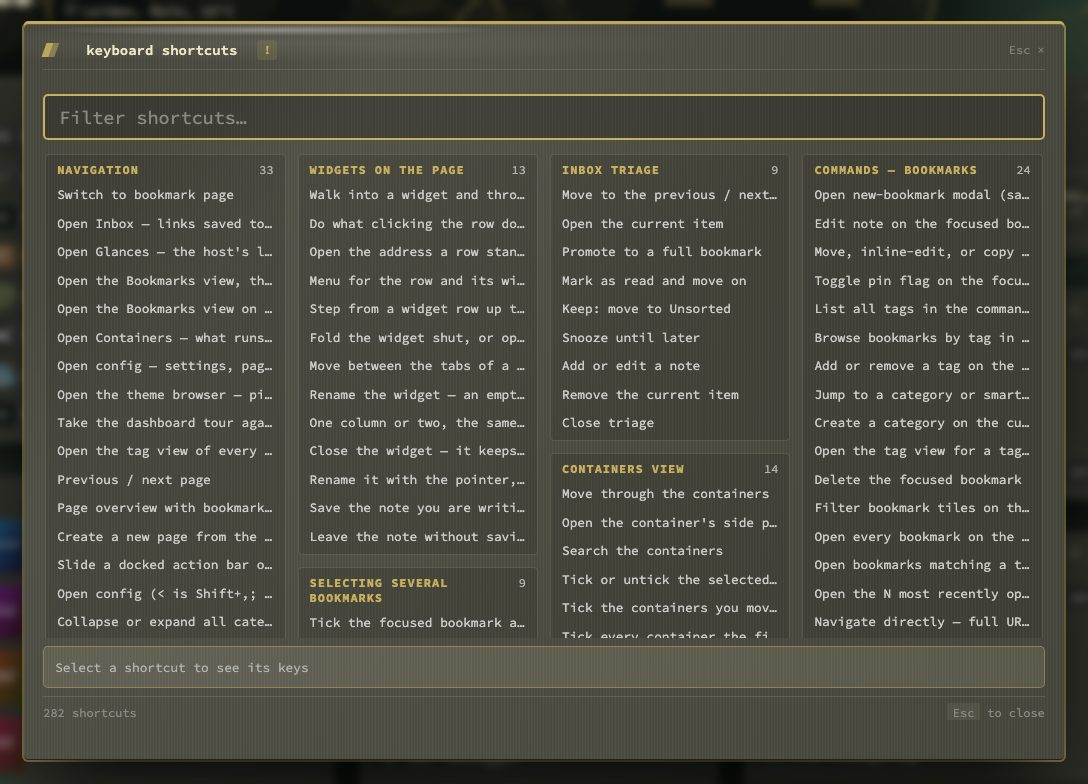
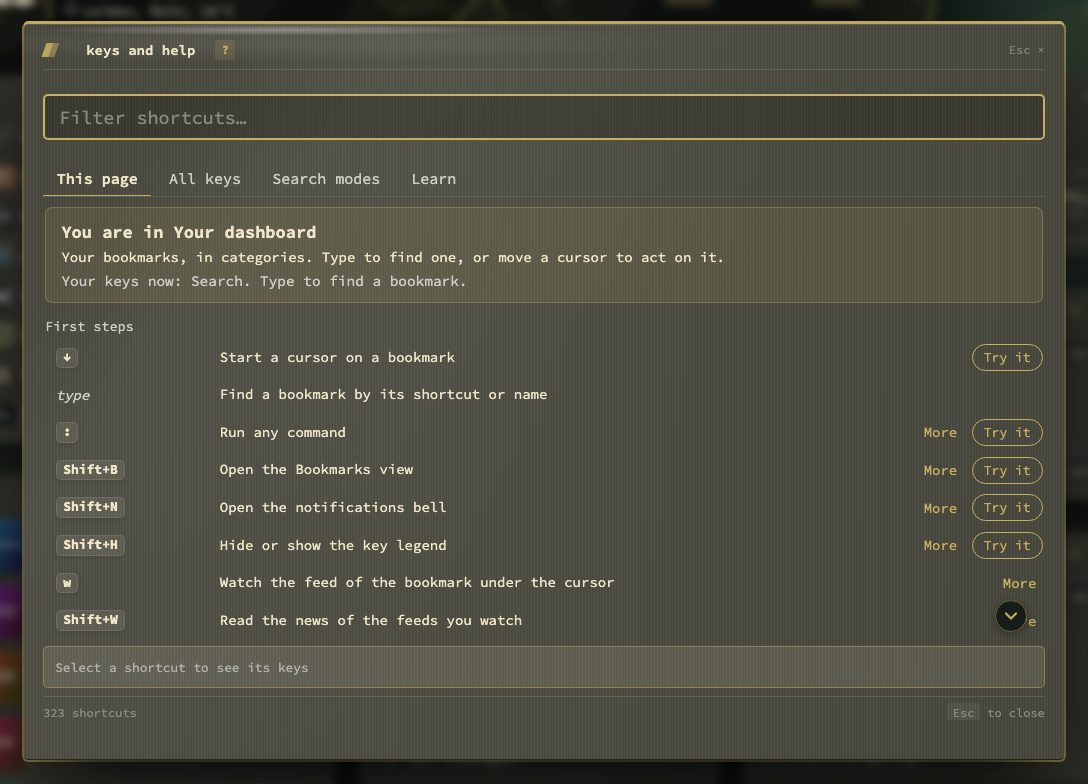
Docs for v1.27.0: readme, manual and overview features

diff --git a/internal/app/asset_hashes_gen.go b/internal/app/asset_hashes_gen.go
@@ -55,7 +55,7 @@ var precomputedAssetHashes = map[string]string{
 	"css/layer-tokens.css":                                   "0bd62e88dc5b",
 	"css/list-view-shell.css":                                "f787fe839d19",
 	"css/mobile-experience.css":                              "182af980a30f",
-	"css/modal.css":                                          "4661490c9cfa",
+	"css/modal.css":                                          "f9c59172a684",
 	"css/monitoring-tutorial.css":                            "958a73ec6be7",
 	"css/nd-chart.css":                                       "3d0d43e2b920",
 	"css/notification-bell.css":                              "e8db3bd594b1",
@@ -235,7 +235,7 @@ var precomputedAssetHashes = map[string]string{
 	"js/dashboard/dashboard-tag-view.js":                     "f3f7c6cd102c",
 	"js/dashboard/dashboard-title-icons.js":                  "ff599b2a3c41",
 	"js/dashboard/dashboard-toolbar.js":                      "b07f0a425cbc",
-	"js/dashboard/dashboard-ui-helpers.js":                   "25347f74f71e",
+	"js/dashboard/dashboard-ui-helpers.js":                   "d4a668edcfbd",
 	"js/dashboard/dashboard-visual.js":                       "c24257baa3f7",
 	"js/dashboard/dashboard-widget-archive.js":               "f7a328eccf11",
 	"js/dashboard/dashboard-widget-arr.js":                   "de02be421161",
@@ -373,7 +373,7 @@ var precomputedAssetHashes = map[string]string{
 	"js/shared/icon-set-picker.js":                           "073841e169ea",
 	"js/shared/inline-create-row.js":                         "d610d93ab25f",
 	"js/shared/keyboard-cheat-sheet-registry.js":             "76be2a68713d",
-	"js/shared/keyboard-page-help.js":                        "a6e74318c591",
+	"js/shared/keyboard-page-help.js":                        "d116edf5f2f9",
 	"js/shared/keyboard-view-legends.js":                     "9659c55af8a6",
 	"js/shared/last-opened-format.js":                        "a968982d0c81",
 	"js/shared/list-density.js":                              "567fcdba3266",
@@ -424,7 +424,7 @@ var precomputedAssetHashes = map[string]string{
 	"js/whats-new-stub.js":                                   "b4eed3d85dfd",
 	"js/widgets-tutorial.js":                                 "eaecc3231fdd",
 	"js/write-api.js":                                        "e0abe4afb886",
-	"nextDash-cheatsheet.pdf":                                "1d8446a27d48",
+	"nextDash-cheatsheet.pdf":                                "4e20178e5789",
 	"status/status.css":                                      "a9ce0e7f22f9",
 	"status/status.js":                                       "02443ce43d7b",
 	"vendor/qrcode-generator/1.4.4/qrcode.js":                "18ae399f8118",

diff --git a/MANUAL.md b/MANUAL.md
@@ -10,7 +10,7 @@
 |---|----------|---------------|
 | 🚀 | **Install & security** | [README.md](README.md) — Docker, environment variables, production setup |
 | 📋 | **Release history** | [CHANGELOG.md](CHANGELOG.md) — every version, new and fix |
-| 🗂 | **Shortcut cheat sheet** | Press **!** or **F1** on the dashboard (live, searchable). Printable: [PDF](nextDash-cheatsheet.pdf?raw=true) / [HTML](nextDash-cheatsheet.html?raw=true) — regenerate with `npm run generate:cheatsheet`. |
+| 🗂 | **Shortcut cheat sheet** | Press **?** or **F1** on the dashboard (live, searchable). Printable: [PDF](nextDash-cheatsheet.pdf?raw=true) / [HTML](nextDash-cheatsheet.html?raw=true) — regenerate with `npm run generate:cheatsheet`. |
 | 💬 | **In-app help** | **Config → Help**, in English, Dutch, German, French, Spanish and Chinese |
 | 🎨 | **A new look, and more than 380 themes** | Every material draws a surface of its own and a fresh install starts on **Tarnished Brass**; 190+ theme families in light and dark, twelve characters, more than 260 backdrops and twelve ready-made looks — tried live on your own page with **`Shift + A`**, saved only on Apply. See [§17A The new look](#17a-the-new-look), [§17 Appearance](#17-appearance) and [the theme studio](#the-theme-studio) |
 | 🏠 | **Self-hosting?** | The [Self-hosted guide](#self-hosted-guide) right below the contents — containers, bookmarks, health and push notifications working as one |
@@ -1045,6 +1045,8 @@ A bookmark row shows its icon, name, optional tags, the shortcut letters and, wh
 
 **A key legend** under the grid shows the keys in four lines (the cursor, finding things, going somewhere, acting on a bookmark), on the dashboard view only. The keys that assume you use the keyboard appear at your first cursor move. `Shift + H` switches the legend off and on, and so does Behavior → Keyboard & search. It is on for new installs.
 
+**The mode strip.** Beside the page name a small strip says what your keys do right now: *Search* while you can just type, *Cursor* with the letters for the bookmark under the cursor, the number of ticked rows, *Edit mode*, or a `g` waiting for its digit. In the other views it says whether the keys browse. With the cursor on a bookmark it suggests up to four keys: one or two that fit the row (it is down, unfiled, untagged, pinned or a video), one that changes with every row, and one you have used less than the others; `Ctrl/Cmd + Z` comes first while a pin or a move can be undone. The strip fades after two seconds without a key. It sits on the page name's line in the classic clock layout and is not drawn below 900 px. `Shift + S` switches it off and on, with a toast, and so does **Show the mode strip** under Behavior → Keyboard & search. A one-time note points it out, with **Got it** and **Turn it off**. Which keys you have used is counted in this browser only.
+
 **Occasional tips.** Tips do not pop up over your work. Two keyboard tips a day wait in the notifications bell ([§4](#the-notifications-bell)), a new pair each calendar day whether or not yesterday's were read, never one you have already read, each with a button to the place it is about. **Show occasional keyboard tips** (Behavior → Privacy & sync → Onboarding) turns them off.
 
 <p align="center"><img src="screenshots/manual.md/17-onboarding-tips.jpg" alt="Config, Behavior, Privacy and sync, the Onboarding group: the switch Show occasional keyboard tips and the switch Offer a tour the first time a section opens" width="760"></p>
@@ -1307,9 +1309,11 @@ Ten tiles fit on a page; a pager in the foot says where you are ("11–20 of 34"
 ## 7. ⌨ Keyboard
 
 > [!NOTE]
-> **In short:** every action on a bookmark is `Shift` plus a letter, and the cheat sheet (`?` or `F1`) lists them all. This chapter is the full key map.
+> **In short:** with the cursor on a row, plain letters act on it; `Shift` plus a letter opens a view or a panel; with no cursor, letters search. Keys and help (`?` or `F1`) lists them all. This chapter is the full key map.
 
 With the cursor on a bookmark, its actions are **plain letters**, as in the Inbox: `e` edits, `m` moves, `t` tags, `p` pins, `c` sets checking, `r` shows it in the Bookmarks view, `v` the preview card, `s` shares, `q` shows a QR code, `d` deletes (it asks first) and `f` filters the grid by its tag; `x` ticks and `j` and `k` move. With no cursor on the grid the same letters start a search: `Esc`, or ten idle seconds, hands them back. `Shift` plus a letter never acts on a bookmark; it is a view or panel wherever you are (`Shift + C` is Containers). A small strip beside the page name says what the keys do right now. The right-click menu shows each key, and the cheat sheet (**`?`** or **`F1`**) lists all of them.
+
+**The keys moved in v1.27.0.** An install that was already running before it is told once, in a window with the main moves, which closes when you tick that you have read it and press **Continue**. For a while the old keys still work and say on screen which key replaced them: `Shift + Y` (now `Shift + C`), `Shift + M` with nothing selected (`Shift + E`), `Shift + J` (`q`), `Shift + L` (`s`) and `Shift + Z` (`Shift + H`). A Shift letter that used to act on a bookmark names its plain letter instead. The news of watched feeds moved from `Shift + N` (now the bell) to `Shift + W`; a tip in the bell says so to anyone who watches a feed.
 
 <a id="71-views-and-panels"></a>
 
@@ -1447,14 +1451,16 @@ A toolbar appears with **Move**, **Tags**, **Pin**, **Checking**, **Open**, **Co
 
 ### 7.6 The cheat sheet
 
-**`?`** or **`F1`** opens the cheat sheet, with a search field at the top. It opens on the section for the view you are in, and lists more than 250 keys and commands by topic — Navigation, Bookmarks, Widgets, Selecting several, the **Bookmarks view**, the **Tag view**, the **Inbox view** and **Inbox triage**, the **Containers view**, the **Glances view**, the Config view, search modes and every command. The topics stand side by side in columns, and each row names an action. Pick a row — with the arrows or a click — and the **dock** under the list shows the keys that do it; the keys are also read out with the row by a screen reader. The search field finds an action, a key or a section name and ignores spaces, so `shift + c` finds Shift+C. A printable version is linked at the top of Config → Help and at the top of this manual. Keys cannot be rebound.
+**`?`** or **`F1`** opens **Keys and help**, with a search field at the top and four tabs. **This page** says where you are, what the page is for, which mode your keys are in and the first steps, each with its key; a step that only moves, opens a view, opens a mode of the search panel or switches an aid on or off has a **Try it** button that closes the sheet and does it. Below the steps it quotes the Help panel for the page, with **Read more →** to Config → Help, the keys of the page with the ones you have not used yet first, and a tip. **All keys** is the cheat sheet itself; **Search modes** explains `>` `:` `!` `#` `*` `=` and `@`; **Learn** lists every tour, the one for this page first. The filter searches all four at once, the Help text included, and jumps to **All keys**. A Help panel's **Keys for this page** opens the sheet on that page, and the **?** in the notifications bell opens it on the bell. While the list runs on below the fold, a small round arrow in its lower right corner bobs; a click scrolls one screen down.
+
+**All keys** opens on the section for the view you are in, and lists more than 250 keys and commands by topic — Navigation, Bookmarks, Widgets, Selecting several, the **Bookmarks view**, the **Tag view**, the **Inbox view** and **Inbox triage**, the **Containers view**, the **Glances view**, the Config view, search modes and every command. The topics stand side by side in columns, and each row names an action. Pick a row — with the arrows or a click — and the **dock** under the list shows the keys that do it; the keys are also read out with the row by a screen reader. The search field finds an action, a key or a section name and ignores spaces, so `shift + c` finds Shift+C. A printable version is linked at the top of Config → Help and at the top of this manual. Keys cannot be rebound.
 
 While a panel is open, the grid behind it does not react. `Tab` stays inside the panel, and `Escape` closes it and puts focus back where it was.
 
 <details>
-<summary>📷 Screenshot — the cheat sheet (<kbd>!</kbd>)</summary>
+<summary>📷 Screenshot — the cheat sheet (<kbd>?</kbd>)</summary>
 
-<p align="center"><img src="screenshots/manual.md/07-cheat-sheet.jpg" alt="The keyboard shortcuts cheat sheet with a filter box and the Navigation section open" width="860"></p>
+<p align="center"><img src="screenshots/manual.md/07-cheat-sheet.jpg" alt="Keys and help on the dashboard: a filter box, the tabs This page, All keys, Search modes and Learn, where you are, and the first steps, each with its key and a Try it button" width="860"></p>
 
 </details>
 
@@ -1475,6 +1481,7 @@ Search, commands and finders are three modes of one panel, which opens in the mi
 >  search     — your bookmarks, with filters
 :  commands   — actions: :theme, :open last 5, …
 !  finders    — ! g query → another site
+#  tags       — #docker, or tags joined with AND and OR
 =  assistant  — ask a question; your latest conversations at a lone =
 @  everywhere — search all pages at once
 ⇧↵ the web    — the same words, asked of a search engine
@@ -1538,6 +1545,8 @@ With the panel empty, the first group is **Usually now**: up to three bookmarks 
 | `-` before any filter | `-tag:archive`, `-status:pinned` |
 
 Filters combine with each other and with plain words: `tag:dev -status:pinned api`. They are offered as you type.
+
+**Tags as a mode.** `#` on the dashboard opens the panel on your tags, and inside the panel `#` at the start does the same; `#docker` and `tag:docker` mean the same. Join tags with `AND` and `OR`, written the same in every language: `docker AND linux OR network` finds what carries both docker and linux, or network (AND binds tighter, and a space between two tags counts as AND). While you type a word that is not yet a whole tag, the panel offers the tags that complete it, and once a tag is done it offers AND and OR. A `#` inside a finder's search or a question to the assistant stays text.
 
 <a id="83-beyond-the-current-page"></a>
 
@@ -3907,6 +3916,7 @@ nextDash ships **190+ theme families**, each with a light and a dark half — mo
 - **The theme studio** — **Open theme studio** beside the theme picker, or **`Shift + A`** on the dashboard. It opens as a panel beside the dashboard, with tabs of its own ([see below](#the-theme-browser)); the first, **Themes**, has one card per family, with a light/dark switch and the line that says what the theme is like to sit in front of. At the top: a search box, the segments *All*, *Favourites*, *New*, *Light* and *Dark*, and **More filters**, which unfolds the **character chips** ([§17.2](#172-character)) and the **collection** chips. While it is folded, the filters that are on show as chips you can remove, and the button counts them. *Light* and *Dark* turn every card to that half; a card can still be switched by hand. Search matches a family's name, its character and the words of its line. The 62 newest families wear a **new** badge, and the **New** segment and searching `new` show only them. Themes of your own come first, under **Your themes**, with a **yours** badge (and **look** when they bring one along); a segment **Yours** shows only them, and searching `yours` finds them. A packaged theme you recoloured wears **recoloured**. A star keeps up to 24 families under *Favourites*. Pointing at a card previews that theme on the real dashboard; clicking one puts it on the page. A line above the grid names the theme in use — or, once you have picked another, which one is chosen and which stays until **Apply** — and **Show** brings its card into view.
 - **Collections** — the **Neutrals** collection holds eight grey bases on one lightness ladder — Neutral, Stone, Gray, Zinc, Slate, Chalk, Concrete and Black — each with a material and a backdrop of its own; **Accent of the neutrals** gives all eight one colour ([§17.3](#173-surfaces)). The **Looks** collection holds twenty-four colour-burst families, from Ember and Supernova to Holo, built around the burst, splash and leak backdrops ([§17.4](#174-type-and-background)). The **Classic** collection holds **ThinkDashboard Classic**, the theme of v1.0.0 with its colours and its grid of dots; the current ThinkDashboard is now **ThinkDashboard Modern**.
 - **For Unraid users** — four themes after the Unraid webGUI, each in light and dark: **Unraid Black** (flat black panels, small uppercase labels, the orange of the logo), **Unraid Azure** (cool grey panels, steel-blue accent), **Unraid Ember** (that orange glowing out of black glass) and **Unraid Blaze** (the red end, hard-edged lacquer on deep crimson). All four draw card panels in the colours of a server, with a rack backdrop and terminal backdrops behind them, and a calmer band.
+- **Holidays** — three seasonal themes, each in light and dark: **Christmas Classic**, **Northern Lights** and **Gingerbread Village**. Behind the cards they draw a tree, a forest or a village with its lights, with snow or sprinkles falling in front, and the category headers get snow caps or icing. The snow lands in the same places on every load. With reduced motion, or with Effects off, it all stands still. The theme studio files them under **Holidays** instead of an archetype, and Gingerbread Village brings a backdrop of its own, a baking tray.
 - **Quick mode** — switches between the light and dark half of the family you are on.
 - **Follow system dark mode** — shows the light half by day and the dark half by night, following the operating system, also in a background tab.
 - **Random theme** — **Off**, **On page refresh**, or **On view change** (switching between the dashboard grid, config, the inbox, the Bookmarks view, Containers or pages). Your saved theme stays underneath and comes back when you turn it off. With follow-system on, only halves that match the current mode are picked.
@@ -4513,7 +4523,7 @@ The Unraid server has a section of its own, **Config → Unraid**: the Container
 
 ### 18.8 Overview, Help and About
 
-**Overview** is the page config opens on. A slim banner at the top links to the feature overview on nextdash.cc. At the top, one line says what needs you — broken links, monitors that are down, unread inbox items, duplicates, shortcut conflicts, links never checked, containers with an update, certificates that run out within two weeks, widgets that could not read what they show (counted on the page in view) and a failed automatic backup — as chips that each go where the problem is fixed; with nothing to do it says so. Below it, two columns:
+**Overview** is the page config opens on. A slim banner at the top links to the feature overview on nextdash.cc. At the top right, under its own heading **Support nextDash**, a card with a Ko-fi button asks for a coffee for those who want to. At the top, one line says what needs you — broken links, monitors that are down, unread inbox items, duplicates, shortcut conflicts, links never checked, containers with an update, certificates that run out within two weeks, widgets that could not read what they show (counted on the page in view) and a failed automatic backup — as chips that each go where the problem is fixed; with nothing to do it says so. Below it, two columns:
 
 - **Your install** — a panel per part of the app, each with a way in (**Open →**) and its own warning in the foot. **Bookmarks**: the count, pages, categories, tags, shortcuts, pins and when you last edited one. **Inbox**: unread, the links added per day over two weeks, how many wait and how long the oldest has. **Containers**: running, stopped, unhealthy and updates available, and which ones — shown only when nextDash can see Docker. **Health**: the healthy share as a ring and the four states (healthy, broken, monitor down, wrong content). **Statistics**: opens this week with two weeks of bars, the most-opened link, the busiest page and the **cleanup score** with what lowers it most. **Settings**: how many settings differ from the defaults, with the sections that hold most of them, and **What changed**, which opens the list ([§18.3](#183-finding-a-setting)); with nothing changed it says *Everything is as it came out of the box.* The Containers panel is left out while it is switched off.
 - **From nextDash** — four panels. **Latest news**: the three newest posts on nextdash.cc (off with **Behavior → Privacy**). **Version**: *You're running v1.x.y of nextDash*, with links to the full changelog and to this manual on GitHub. **New in nextDash**: the three newest features, each a way into what it changed, with **Show what's new**. Last, a **tip of the day** from Help → Tips, with ‹ › to step through the others.

diff --git a/README.md b/README.md
@@ -14,7 +14,7 @@ It started because my bookmark bar had become a graveyard, and grew into one pla
 - **Health and monitoring.** Dead links, uptime with 30 days of history, certificate and domain expiry, page drift and a public status page, with alerts to ntfy, Slack, Discord, Telegram and more, or a push notification on your phone.
 - **Containers and homelab.** A Containers view for the Docker host: logs, start, stop, update with a rollback, and each container linked to its bookmark. Widgets for Unraid, Jellyfin, Sonarr, Home Assistant, Beszel and Glances.
 - **Widgets** for what is going on: weather, calendar, feeds, inbox, your machine, and any service that answers with JSON.
-- **Looks.** 384 themes, 266 backdrops and a theme studio, in six languages.
+- **Looks.** 390 themes, 267 backdrops and a theme studio, in six languages.
 - **An assistant, if you want one.** Ask in plain words with Claude, OpenAI or a model of your own, and decide what happens to what it suggests. Off until you turn it on.
 - **Yours to keep.** One Go binary and plain JSON files, automatic backups, a 30-day trash, and imports from every browser, Pocket, Raindrop, linkding and more.
 
@@ -22,7 +22,7 @@ It started because my bookmark bar had become a graveyard, and grew into one pla
   <img src="screenshots/nextdash-dashboard.jpg" alt="The nextDash dashboard in Tarnished Brass: a large clock with a greeting, the notifications bell in the header, categories in columns, and widgets for health, uptime, the inbox, notes and the weather" width="100%" />
 </p>
 
-🎨 **384 themes and a theme studio.** 192 theme families, each with a light and a dark half, drawn from twelve materials — lacquer, glass, frost, aurora, neon, velvet, enamel, brushed metal, carbon, paper, terminal and ink — and from three collections: eight neutrals, the Looks and ThinkDashboard Classic. **Aurora Glass** is the default on a new install (an install that already chose a theme keeps it), and every material draws its own surface, category header and widget header, as a **signature** or in the flat **Classic** way. **`Shift + A`** opens the theme studio beside your dashboard and changes the real page as you go: the theme, 266 backdrops with a quiet centre behind the bookmarks, depth, glow and card glass, the category headers, the type and the contrast — or one of twelve ready-made looks that set them all at once. **Compare** shows what you had, 🎲 tries something at random, and nothing is saved until **Apply**. Search by name or material, keep up to 24 favourites, follow your system's light and dark mode, or recolour any theme and build your own in the theme editor. *[Manual: The new look](MANUAL.md#17a-the-new-look)* · *[Manual: Appearance](MANUAL.md#17-appearance)*
+🎨 **390 themes and a theme studio.** 195 theme families, each with a light and a dark half, drawn from twelve materials — lacquer, glass, frost, aurora, neon, velvet, enamel, brushed metal, carbon, paper, terminal and ink — and from three collections: eight neutrals, the Looks and ThinkDashboard Classic, plus three holiday themes with snow and lights. **Tarnished Brass** is the default on a new install (an install that already chose a theme keeps it), and every material draws its own surface, category header and widget header, as a **signature** or in the flat **Classic** way. **`Shift + A`** opens the theme studio beside your dashboard and changes the real page as you go: the theme, 267 backdrops with a quiet centre behind the bookmarks, depth, glow and card glass, the category headers, the type and the contrast — or one of twelve ready-made looks that set them all at once. **Compare** shows what you had, 🎲 tries something at random, and nothing is saved until **Apply**. Search by name or material, keep up to 24 favourites, follow your system's light and dark mode, or recolour any theme and build your own in the theme editor. *[Manual: The new look](MANUAL.md#17a-the-new-look)* · *[Manual: Appearance](MANUAL.md#17-appearance)*
 
 <details>
 <summary><b>See every theme</b> — all 192 dark and all 192 light, each on the same dashboard</summary>
@@ -47,7 +47,7 @@ Based on [ThinkDashboard](https://github.com/MatiasDesuu/ThinkDashboard) by Mati
 
 📋 **[Changelog (CHANGELOG.md)](CHANGELOG.md)** — every release, new and fix.
 
-🗂 **[Cheat sheet](nextDash-cheatsheet.pdf?raw=true)** — every keyboard shortcut, printable ([HTML](nextDash-cheatsheet.html?raw=true)). Press **!** or **F1** on the dashboard for the live list. Regenerate with `npm run generate:cheatsheet`.
+🗂 **[Cheat sheet](nextDash-cheatsheet.pdf?raw=true)** — every keyboard shortcut, printable ([HTML](nextDash-cheatsheet.html?raw=true)). Press **?** or **F1** on the dashboard for the live list. Regenerate with `npm run generate:cheatsheet`.
 
 🌐 **Website:** [nextdash.cc](https://nextdash.cc)
 
@@ -124,7 +124,7 @@ nextDash is a bookmark dashboard that also knows your Docker host. The link to S
     <td width="50%" align="center" valign="top">
       <img src="screenshots/nextdash-edit-mode.jpg" alt="Edit mode" width="100%" />
       <br />
-      <sub><b>Edit mode</b> <i>(Oceanic Steel)</i> — <kbd>Shift</kbd> + <kbd>M</kbd> or the pencil in the action bar: every block gets an outline, a click chooses one, and a panel beside the page changes its name, icon, width, view and sorting, or a widget's settings, and saves as you type. <kbd>Esc</kbd> leaves.</sub>
+      <sub><b>Edit mode</b> <i>(Oceanic Steel)</i> — <kbd>Shift</kbd> + <kbd>E</kbd> or the pencil in the action bar: every block gets an outline, a click chooses one, and a panel beside the page changes its name, icon, width, view and sorting, or a widget's settings, and saves as you type. <kbd>Esc</kbd> leaves.</sub>
     </td>
     <td width="50%" align="center" valign="top">
       <img src="screenshots/nextdash-digest.jpg" alt="Weekly digest" width="100%" />
@@ -184,7 +184,7 @@ nextDash is a bookmark dashboard that also knows your Docker host. The link to S
     <td width="50%" align="center" valign="top">
       <img src="screenshots/nextdash-themes.jpg" alt="Theme studio" width="100%" />
       <br />
-      <sub><b>The theme studio</b> <i>(Mulberry Silk)</i> — <kbd>Shift</kbd>+<kbd>A</kbd> opens it beside the dashboard: 192 theme families with a light and a dark half, filtered by material or collection, and tabs for the backdrop, card surface, headers, layout and ready-made looks. Every change shows on your own page, and nothing is saved until Apply.</sub>
+      <sub><b>The theme studio</b> <i>(Mulberry Silk)</i> — <kbd>Shift</kbd>+<kbd>A</kbd> opens it beside the dashboard: 195 theme families with a light and a dark half, filtered by material or collection, and tabs for the backdrop, card surface, headers, layout and ready-made looks. Every change shows on your own page, and nothing is saved until Apply.</sub>
     </td>
   </tr>
   <tr>
@@ -476,7 +476,7 @@ Each line links to the part of the [manual](MANUAL.md) that explains it.
 **Search and keyboard**
 
 - Everything is reachable from the keyboard: one rule for the shortcuts and a searchable cheat sheet on `?`. *[Manual §7](MANUAL.md#7-keyboard)*
-- A key legend under the grid keeps the main keys in sight (`Shift + H` switches it off), a dashboard tour of ten steps plays again with `Shift + K`, a four-step keyboard tour with `:tour keyboard`, and after an update the **What's new** window gives the main change of a release a spotlight. *[Manual §7](MANUAL.md#7-keyboard)*
+- A key legend under every view keeps its keys in sight (`Shift + H` switches it off), a strip beside the page name says what your keys do right now (`Shift + S`), `?` opens keys and help for the page you are on, a dashboard tour of ten steps plays again with `Shift + K`, a four-step keyboard tour with `:tour keyboard`, and after an update the **What's new** window gives the main change of a release a spotlight. *[Manual §7](MANUAL.md#7-keyboard)*
 - One panel for search, commands and finders, plus search from the browser's address bar. *[Manual §8](MANUAL.md#8-search-commands-and-finders)*
 - **Usually now** puts the bookmarks you tend to open around this time of day at the top of the empty search panel, and `→` on a result unfolds what you can do with it: open, open in a new tab, edit, copy the address, show in the list, move. *[Manual §8](MANUAL.md#8-search-commands-and-finders)*
 - Filters for tag, category, page, status, added and opened — each also in the negative. *[Manual §8.2](MANUAL.md#82-filters)*

diff --git a/CHANGELOG.md b/CHANGELOG.md
@@ -209,6 +209,10 @@ One set of keyboard rules for every view. With the cursor on a row, plain letter
 - **docs — Config → Help and tips.** Help and the tips name the new keys; the bell has its own Help topic and a `?` for keys and help. Nine texts that still named old keys now follow the scheme: *Daily use* (`e`, `m`, `t`), Appearance (`v` for the preview card), Tags (`Shift + T` whatever is selected), Health charts (`l`), the Inbox, Triage and Unsorted (`m` keeps a link), a Health tip (`l`) and the Structure tip (**Manage** in the rail, since `Shift + P` and `Shift + C` open the Pages panel and Containers). Finders on their own read `! w`, not `?w`, in Help and the manual.
 - **docs — Cheat sheet.** `nextDash-cheatsheet.html` and the PDF (root and `static/`) are generated again: `W`, not `Shift + W`, spreads a widget.
 - **docs — Translations.** The 334 new strings (mode strip, Keys and help sheet with its page help, key legends, tips, notes, Support card, palette tags) and the 98 changed ones in Dutch, German, French, Spanish and Chinese. The locale files are in parity again. `dashboard.cheatsheetTabsLabel` was in `en.json` twice, and the later *Shortcut topics* hid *Keys and help*. `commands.paletteMostUsed` and `config.bmNoTagToFilter` were asked for in the code but missing; they are added in all six.
+- **docs — README.** 390 themes, 195 families and 267 backdrops; **Tarnished Brass** named as the default (it still said Aurora Glass); the cheat sheet on `?`, edit mode on `Shift + E`, and the key legend, mode strip and keys and help in the keyboard lines.
+- **docs — Manual.** The mode strip (§4), the key move with the old keys that still answer (§7), keys and help with its four tabs and the arrow (§7.6), tags as a search mode with `#`, AND and OR (§8), the Holidays group (§17.1) and the Support card on the Overview (§18.8); the cheat sheet line at the top reads `?`.
+- **docs — Config → Overview and About → News & features.** Four entries with `since: v1.27.0` in `overview-features.json`, in six languages: one set of keys, the mode strip, tags in the search panel and the holiday themes.
+- **docs — nextdash.cc.** `feature-pages/v1.27.0-pages.php` puts the new keys on nineteen feature pages and their *Try it* boxes, writes the Keys page anew around the one scheme, the strip, the legends and keys and help, adds tags with AND and OR to Find, the Holidays section to Themes and the legend to Glances. The front page, the stats strip, the gallery intro and the comparison say 390 themes, 195 families, 267 backdrops and 53 widget kinds. New pictures of keys and help, the four-line legend and Christmas Classic.
 - **docs — Unraid template.** `nextdash.xml` carries the v1.26.1 date and changes.
 
 ---
